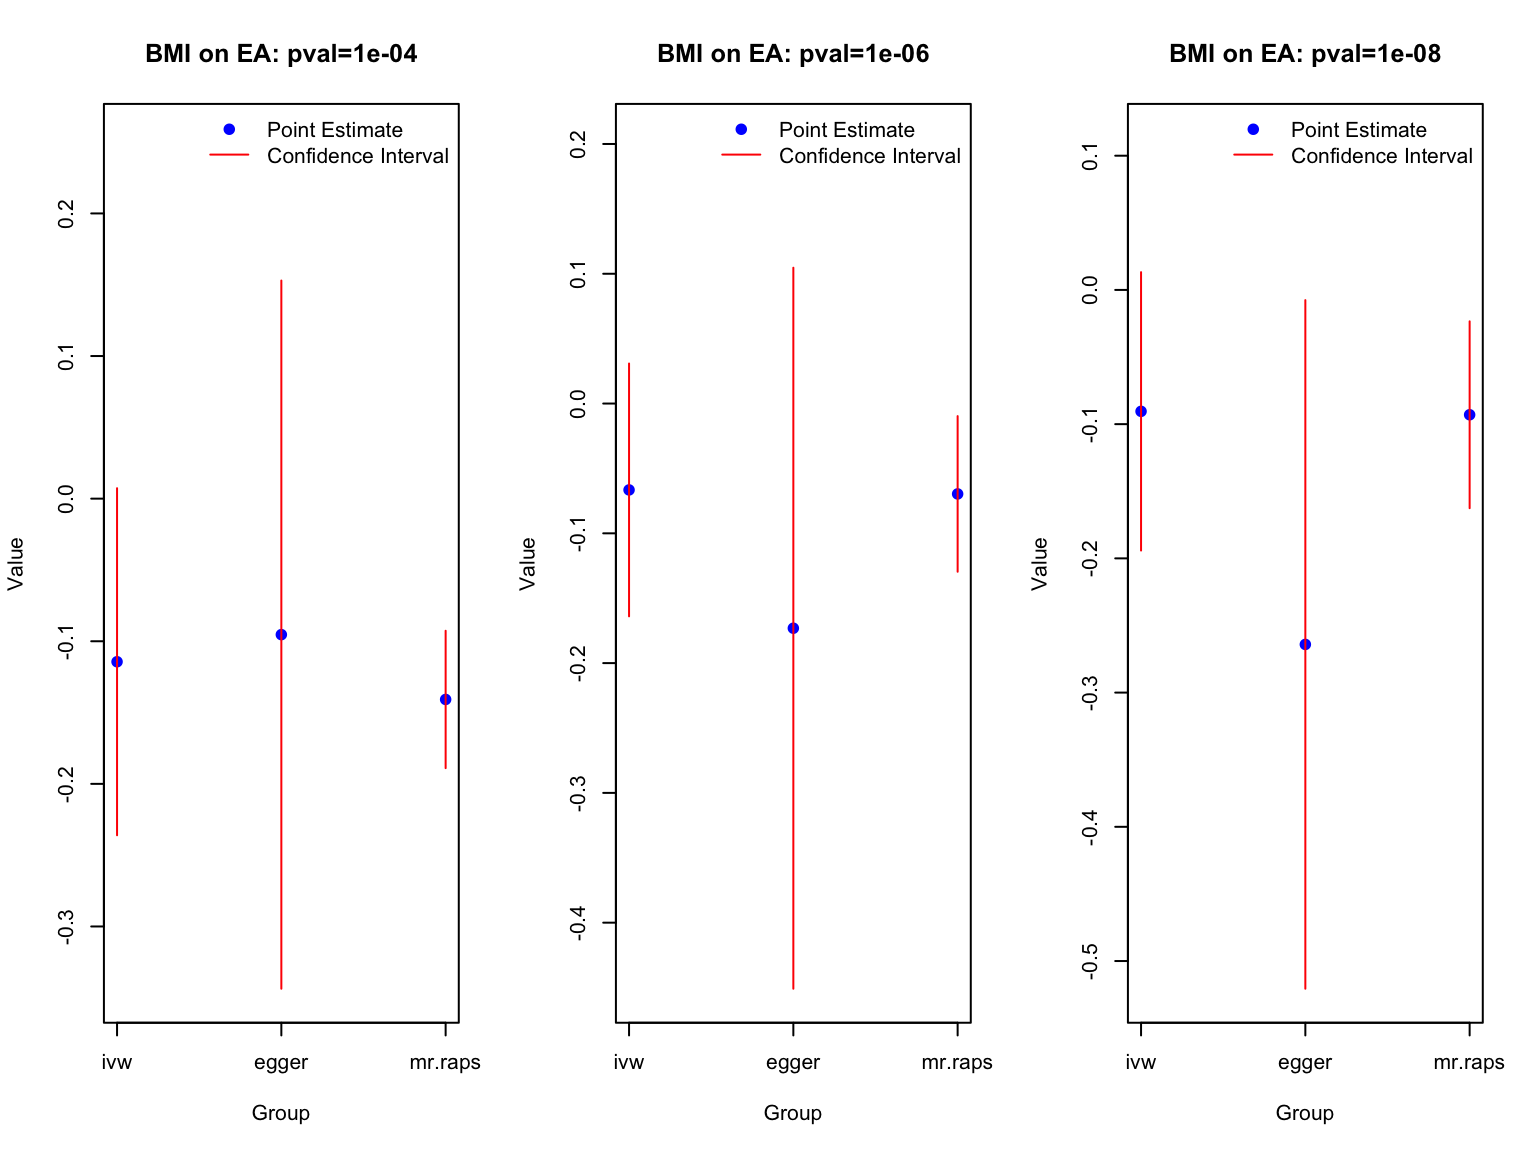
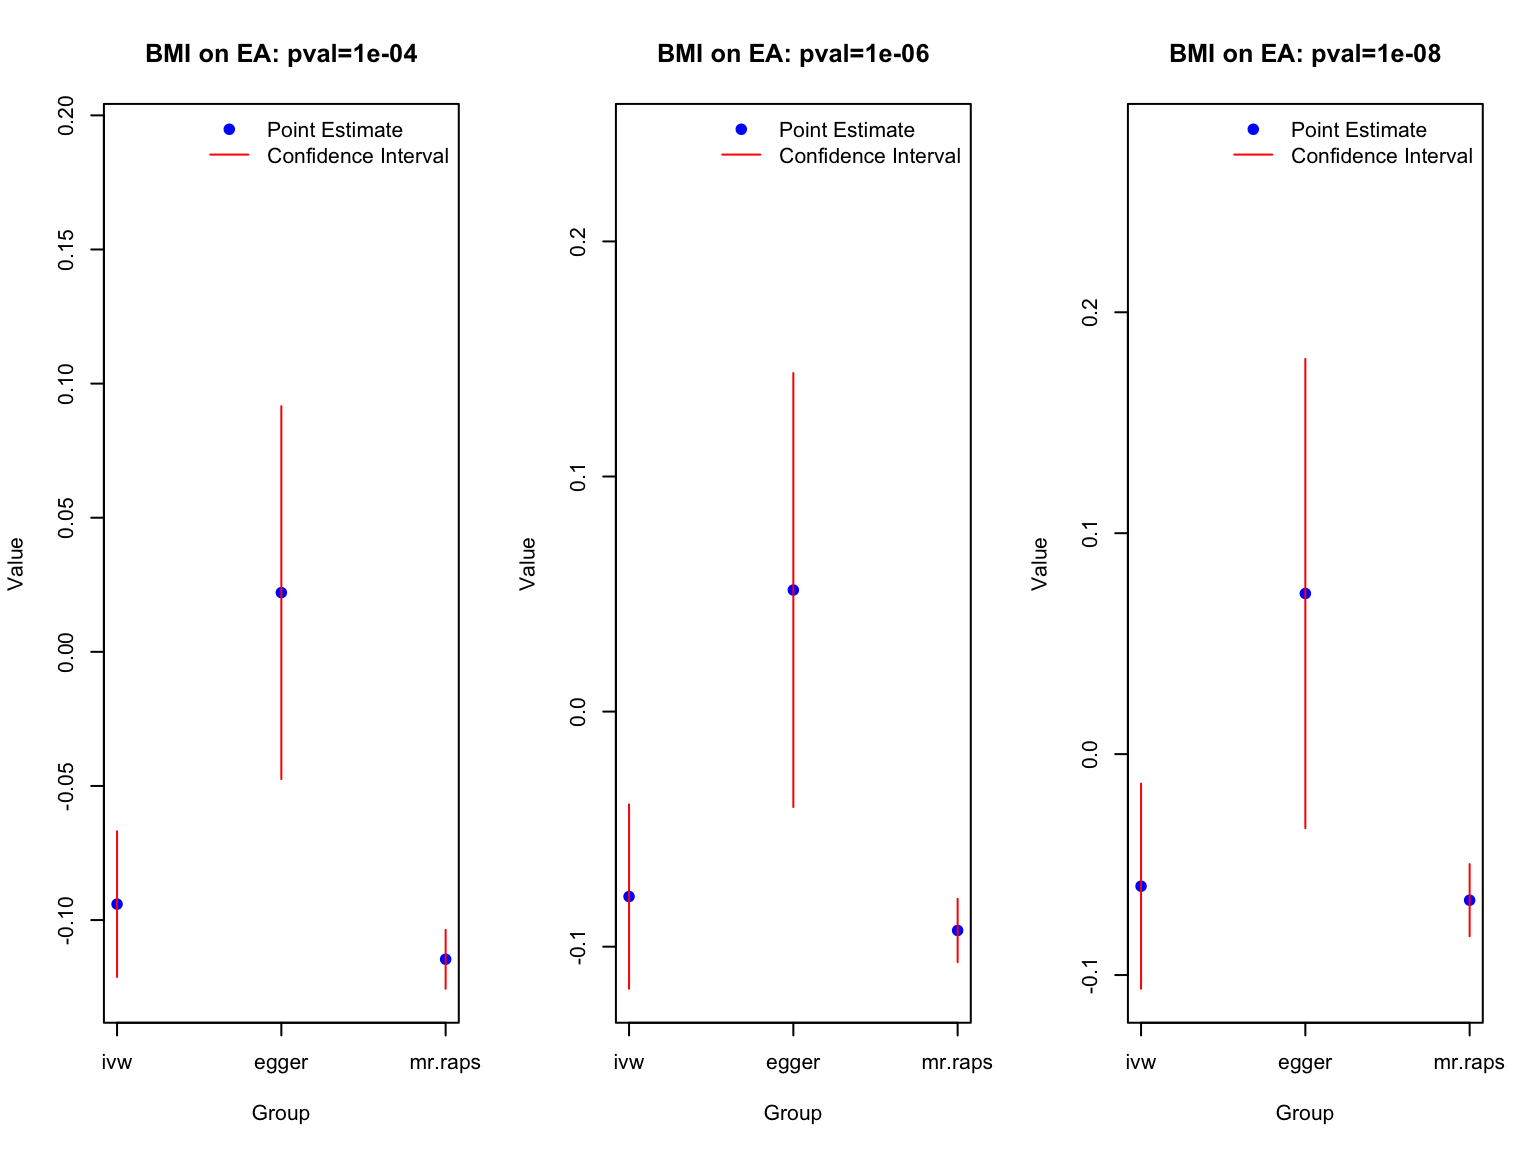
Build site.

diff --git a/docs/real_data_analysis.html b/docs/real_data_analysis.html
@@ -384,7 +384,7 @@ div.tocify {
 <div class="tab-content">
 <div id="summary" class="tab-pane fade in active">
 <p>
-<strong>Last updated:</strong> 2024-04-02
+<strong>Last updated:</strong> 2024-04-10
 </p>
 <p>
 <strong>Checks:</strong> <span class="glyphicon glyphicon-ok text-success" aria-hidden="true"></span> 7 <span class="glyphicon glyphicon-exclamation-sign text-danger" aria-hidden="true"></span> 0
@@ -475,16 +475,16 @@ This reproducible <a href="http://rmarkdown.rstudio.com">R Markdown</a> analysis
 <div class="panel panel-default">
 <div class="panel-heading">
 <p class="panel-title">
-<a data-toggle="collapse" data-parent="#workflowr-checks" href="#strongRepositoryversionstrongahrefhttpsgithubcomyunqiyang0215simulationcalibratedmrtree557ecaad93b6bc32e1574b5328aead65dd4d4817targetblank557ecaaa"> <span class="glyphicon glyphicon-ok text-success" aria-hidden="true"></span> <strong>Repository version:</strong> <a href="https://github.com/yunqiyang0215/simulation-calibrated-mr/tree/557ecaad93b6bc32e1574b5328aead65dd4d4817" target="_blank">557ecaa</a> </a>
+<a data-toggle="collapse" data-parent="#workflowr-checks" href="#strongRepositoryversionstrongahrefhttpsgithubcomyunqiyang0215simulationcalibratedmrtreef75b7e35054ba3396f1efb25ac5efeaecb6ab0c1targetblankf75b7e3a"> <span class="glyphicon glyphicon-ok text-success" aria-hidden="true"></span> <strong>Repository version:</strong> <a href="https://github.com/yunqiyang0215/simulation-calibrated-mr/tree/f75b7e35054ba3396f1efb25ac5efeaecb6ab0c1" target="_blank">f75b7e3</a> </a>
 </p>
 </div>
[2 lines of base64/hex data omitted]
 <div class="panel-body">
 <p>
 Great! You are using Git for version control. Tracking code development and connecting the code version to the results is critical for reproducibility.
 </p>
 <p>
-The results in this page were generated with repository version <a href="https://github.com/yunqiyang0215/simulation-calibrated-mr/tree/557ecaad93b6bc32e1574b5328aead65dd4d4817" target="_blank">557ecaa</a>. See the <em>Past versions</em> tab to see a history of the changes made to the R Markdown and HTML files.
+The results in this page were generated with repository version <a href="https://github.com/yunqiyang0215/simulation-calibrated-mr/tree/f75b7e35054ba3396f1efb25ac5efeaecb6ab0c1" target="_blank">f75b7e3</a>. See the <em>Past versions</em> tab to see a history of the changes made to the R Markdown and HTML files.
 </p>
 <p>
 Note that you need to be careful to ensure that all relevant files for the analysis have been committed to Git prior to generating the results (you can use <code>wflow_publish</code> or <code>wflow_git_commit</code>). workflowr only checks the R Markdown file, but you know if there are other scripts or data files that it depends on. Below is the status of the Git repository when the results were generated:
@@ -534,6 +534,40 @@ Message
 </tr>
 </thead>
 <tbody>
+<tr>
+<td>
+Rmd
+</td>
+<td>
+<a href="https://github.com/yunqiyang0215/simulation-calibrated-mr/blob/f75b7e35054ba3396f1efb25ac5efeaecb6ab0c1/analysis/real_data_analysis.Rmd" target="_blank">f75b7e3</a>
+</td>
+<td>
+yunqiyang0215
+</td>
+<td>
+2024-04-10
+</td>
+<td>
+wflow_publish("analysis/real_data_analysis.Rmd")
+</td>
+</tr>
+<tr>
+<td>
+html
+</td>
+<td>
+<a href="https://rawcdn.githack.com/yunqiyang0215/simulation-calibrated-mr/4f867924f5d618f993fe1895d60eabddad9f03d1/docs/real_data_analysis.html" target="_blank">4f86792</a>
+</td>
+<td>
+yunqiyang0215
+</td>
+<td>
+2024-04-02
+</td>
+<td>
+Build site.
+</td>
+</tr>
 <tr>
 <td>
 Rmd
@@ -854,17 +888,19 @@ library(MendelianRandomization)</code></pre>
 <h3>1. BMI on education attainment</h3>
 <pre class="r"><code>sel.file &lt;- &quot;/Users/nicholeyang/Downloads/calibrated_estimator/simulation/real_data/BMI-giant17eu.csv&quot;
 exp.file &lt;- &quot;/Users/nicholeyang/Downloads/calibrated_estimator/simulation/real_data/BMI-ukb.csv&quot;
+
+exp.file &lt;- &quot;/Users/nicholeyang/Downloads/calibrated_estimator/simulation/real_data/BMI-giant17eu.csv&quot;
 out.file &lt;- &quot;/Users/nicholeyang/Downloads/calibrated_estimator/simulation/real_data/GWAS_EA_excl23andMe.txt&quot;
 plink_refdat &lt;- &quot;/Users/nicholeyang/Downloads/calibrated_estimator/simulation/real_data/data_maf0.01_rs_ref/data_maf0.01_rs_ref&quot;
 
-data.list &lt;- getInput(sel.file, exp.file, out.file, plink_refdat, max.p.thres = 0.1, 
+data.list &lt;- getInput(sel.file, exp.file, out.file, plink_refdat, max.p.thres = 0.01, 
                       plink_exe = &#39;/Users/nicholeyang/Downloads/calibrated_estimator/simulation/real_data/plink_mac_20230116/plink&#39;)</code></pre>
 <pre><code>[1] &quot;loading data for selection: /Users/nicholeyang/Downloads/calibrated_estimator/simulation/real_data/BMI-giant17eu.csv ...&quot;
-[1] &quot;loading data from exposure: /Users/nicholeyang/Downloads/calibrated_estimator/simulation/real_data/BMI-ukb.csv ...&quot;
+[1] &quot;loading data from exposure: /Users/nicholeyang/Downloads/calibrated_estimator/simulation/real_data/BMI-giant17eu.csv ...&quot;
 [1] &quot;loading data from outcome: /Users/nicholeyang/Downloads/calibrated_estimator/simulation/real_data/GWAS_EA_excl23andMe.txt ...&quot;
 [1] &quot;Start clumping using PLINK ...&quot;</code></pre>
 <pre><code>Loading required package: data.table</code></pre>
-<pre><code>[1] &quot;127 independent genetic instruments extracted. Done!&quot;</code></pre>
+<pre><code>[1] &quot;783 independent genetic instruments extracted. Done!&quot;</code></pre>
 <pre class="r"><code>write.table(data.list$data[, 1], &quot;/Users/nicholeyang/Downloads/calibrated_estimator/simulation/dat_ukb/bmi_ea.txt&quot;, quote = FALSE, col.names  = FALSE, row.names = FALSE)</code></pre>
 <pre class="r"><code>par(mfrow = c(1,3))
 pval_threshold = c(1e-4, 1e-6, 1e-8)
@@ -957,7 +993,7 @@ data.list &lt;- getInput(sel.file, exp.file, out.file, plink_refdat, max.p.thres
 [1] &quot;loading data from exposure: /Users/nicholeyang/Downloads/calibrated_estimator/simulation/real_data/BMI-ukb.csv ...&quot;
 [1] &quot;loading data from outcome: /Users/nicholeyang/Downloads/calibrated_estimator/simulation/real_data/T2D-diagram12-Im.csv ...&quot;
 [1] &quot;Start clumping using PLINK ...&quot;
-[1] &quot;112 independent genetic instruments extracted. Done!&quot;</code></pre>
+[1] &quot;1096 independent genetic instruments extracted. Done!&quot;</code></pre>
 <pre class="r"><code>write.table(data.list$data[,1], &quot;/Users/nicholeyang/Downloads/calibrated_estimator/simulation/dat_ukb/bmi_t2d.txt&quot;, quote = FALSE, col.names  = FALSE, row.names = FALSE)</code></pre>
 <pre class="r"><code>par(mfrow = c(1,3))
 pval_threshold = c(1e-4, 1e-6, 1e-8)

diff --git a/docs/site_libs/navigation-1.1/codefolding.js b/docs/site_libs/navigation-1.1/codefolding.js
@@ -19,8 +19,6 @@ window.initializeCodeFolding = function(show) {
   // select all R code blocks
   var rCodeBlocks = $('pre.r, pre.python, pre.bash, pre.sql, pre.cpp, pre.stan, pre.julia, pre.foldable');
   rCodeBlocks.each(function() {
-    // skip if the block has fold-none class
-    if ($(this).hasClass('fold-none')) return;
 
     // create a collapsable div to wrap the code in
     var div = $('<div class="collapse r-code-collapse"></div>');
@@ -36,9 +34,7 @@ window.initializeCodeFolding = function(show) {
     showCodeButton.append(showCodeText);
     showCodeButton
         .attr('data-toggle', 'collapse')
-        .attr('data-bs-toggle', 'collapse') // BS5
         .attr('data-target', '#' + id)
-        .attr('data-bs-target', '#' + id)   // BS5
         .attr('aria-expanded', showThis)
         .attr('aria-controls', id);
 
